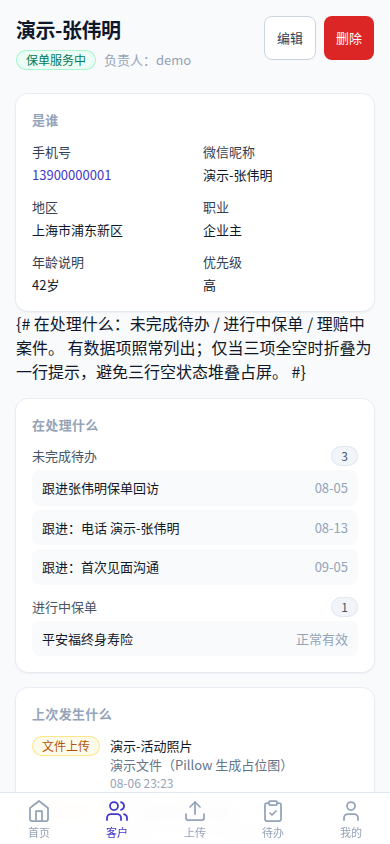
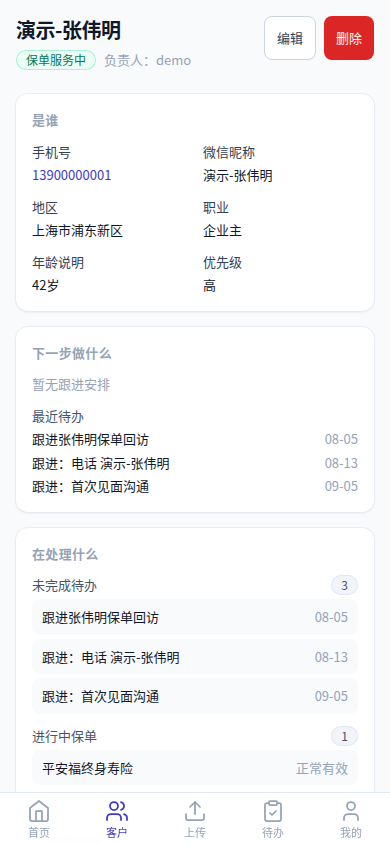
fix: compress mobile timeline block; final visual QA pass

diff --git a/templates/customers/customer_detail.html b/templates/customers/customer_detail.html
@@ -185,15 +185,12 @@
       <section class="card">
         <h2 class="mb-3 text-body-sm font-semibold uppercase tracking-wide text-slate-400">上次发生什么</h2>
         {% if timeline_entries %}
-          <ul class="space-y-2.5">
-            {% for entry in timeline_entries %}
-              <li class="flex items-start gap-2.5">
+          <ul class="space-y-1.5">
+            {% for entry in timeline_entries|slice:":3" %}
+              <li class="flex items-center gap-2 rounded-lg bg-slate-50 px-2.5 py-1.5">
                 <span class="badge {{ entry.badge_class }} shrink-0">{{ entry.label }}</span>
-                <div class="min-w-0 flex-1">
-                  <p class="truncate text-body-sm font-medium text-slate-900">{{ entry.title }}</p>
-                  {% if entry.summary %}<p class="truncate text-body-sm text-slate-500">{{ entry.summary }}</p>{% endif %}
-                  <p class="text-xs text-slate-400">{{ entry.occurred_at|date:"m-d H:i" }}</p>
-                </div>
+                <span class="min-w-0 flex-1 truncate text-body-sm text-slate-900">{{ entry.title }}</span>
+                <span class="shrink-0 text-xs text-slate-400">{{ entry.occurred_at|date:"m-d" }}</span>
               </li>
             {% endfor %}
           </ul>
